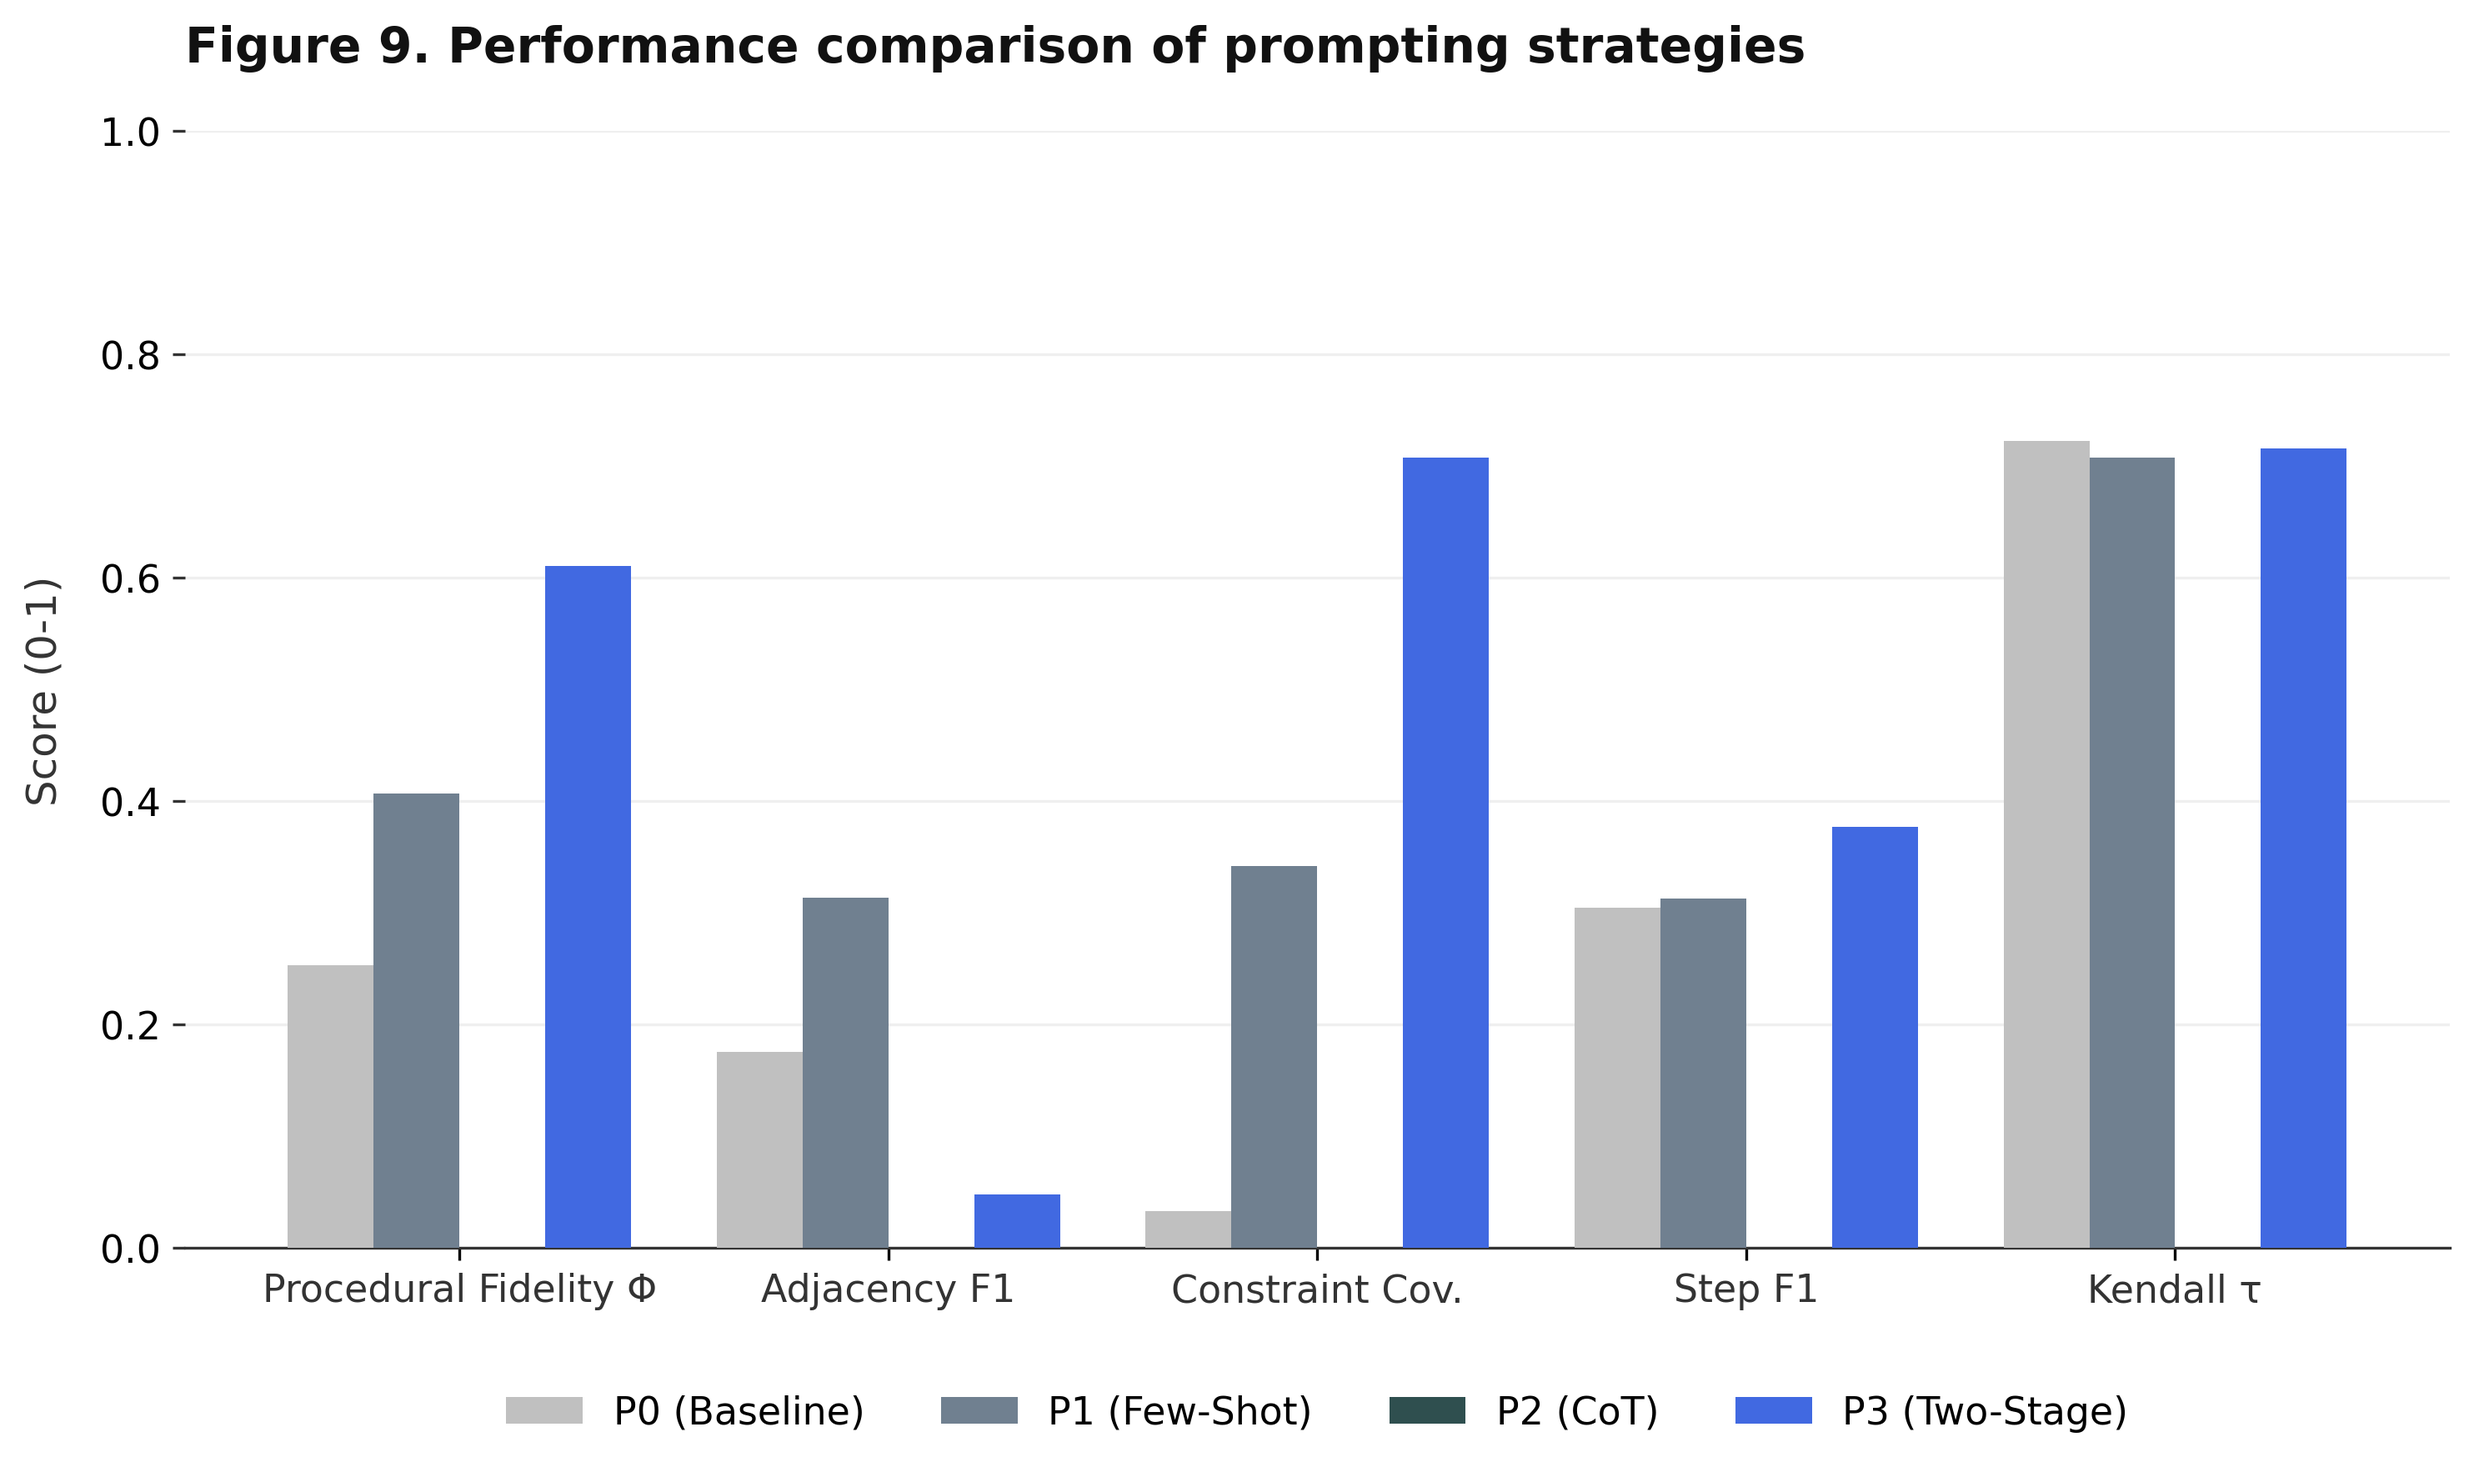
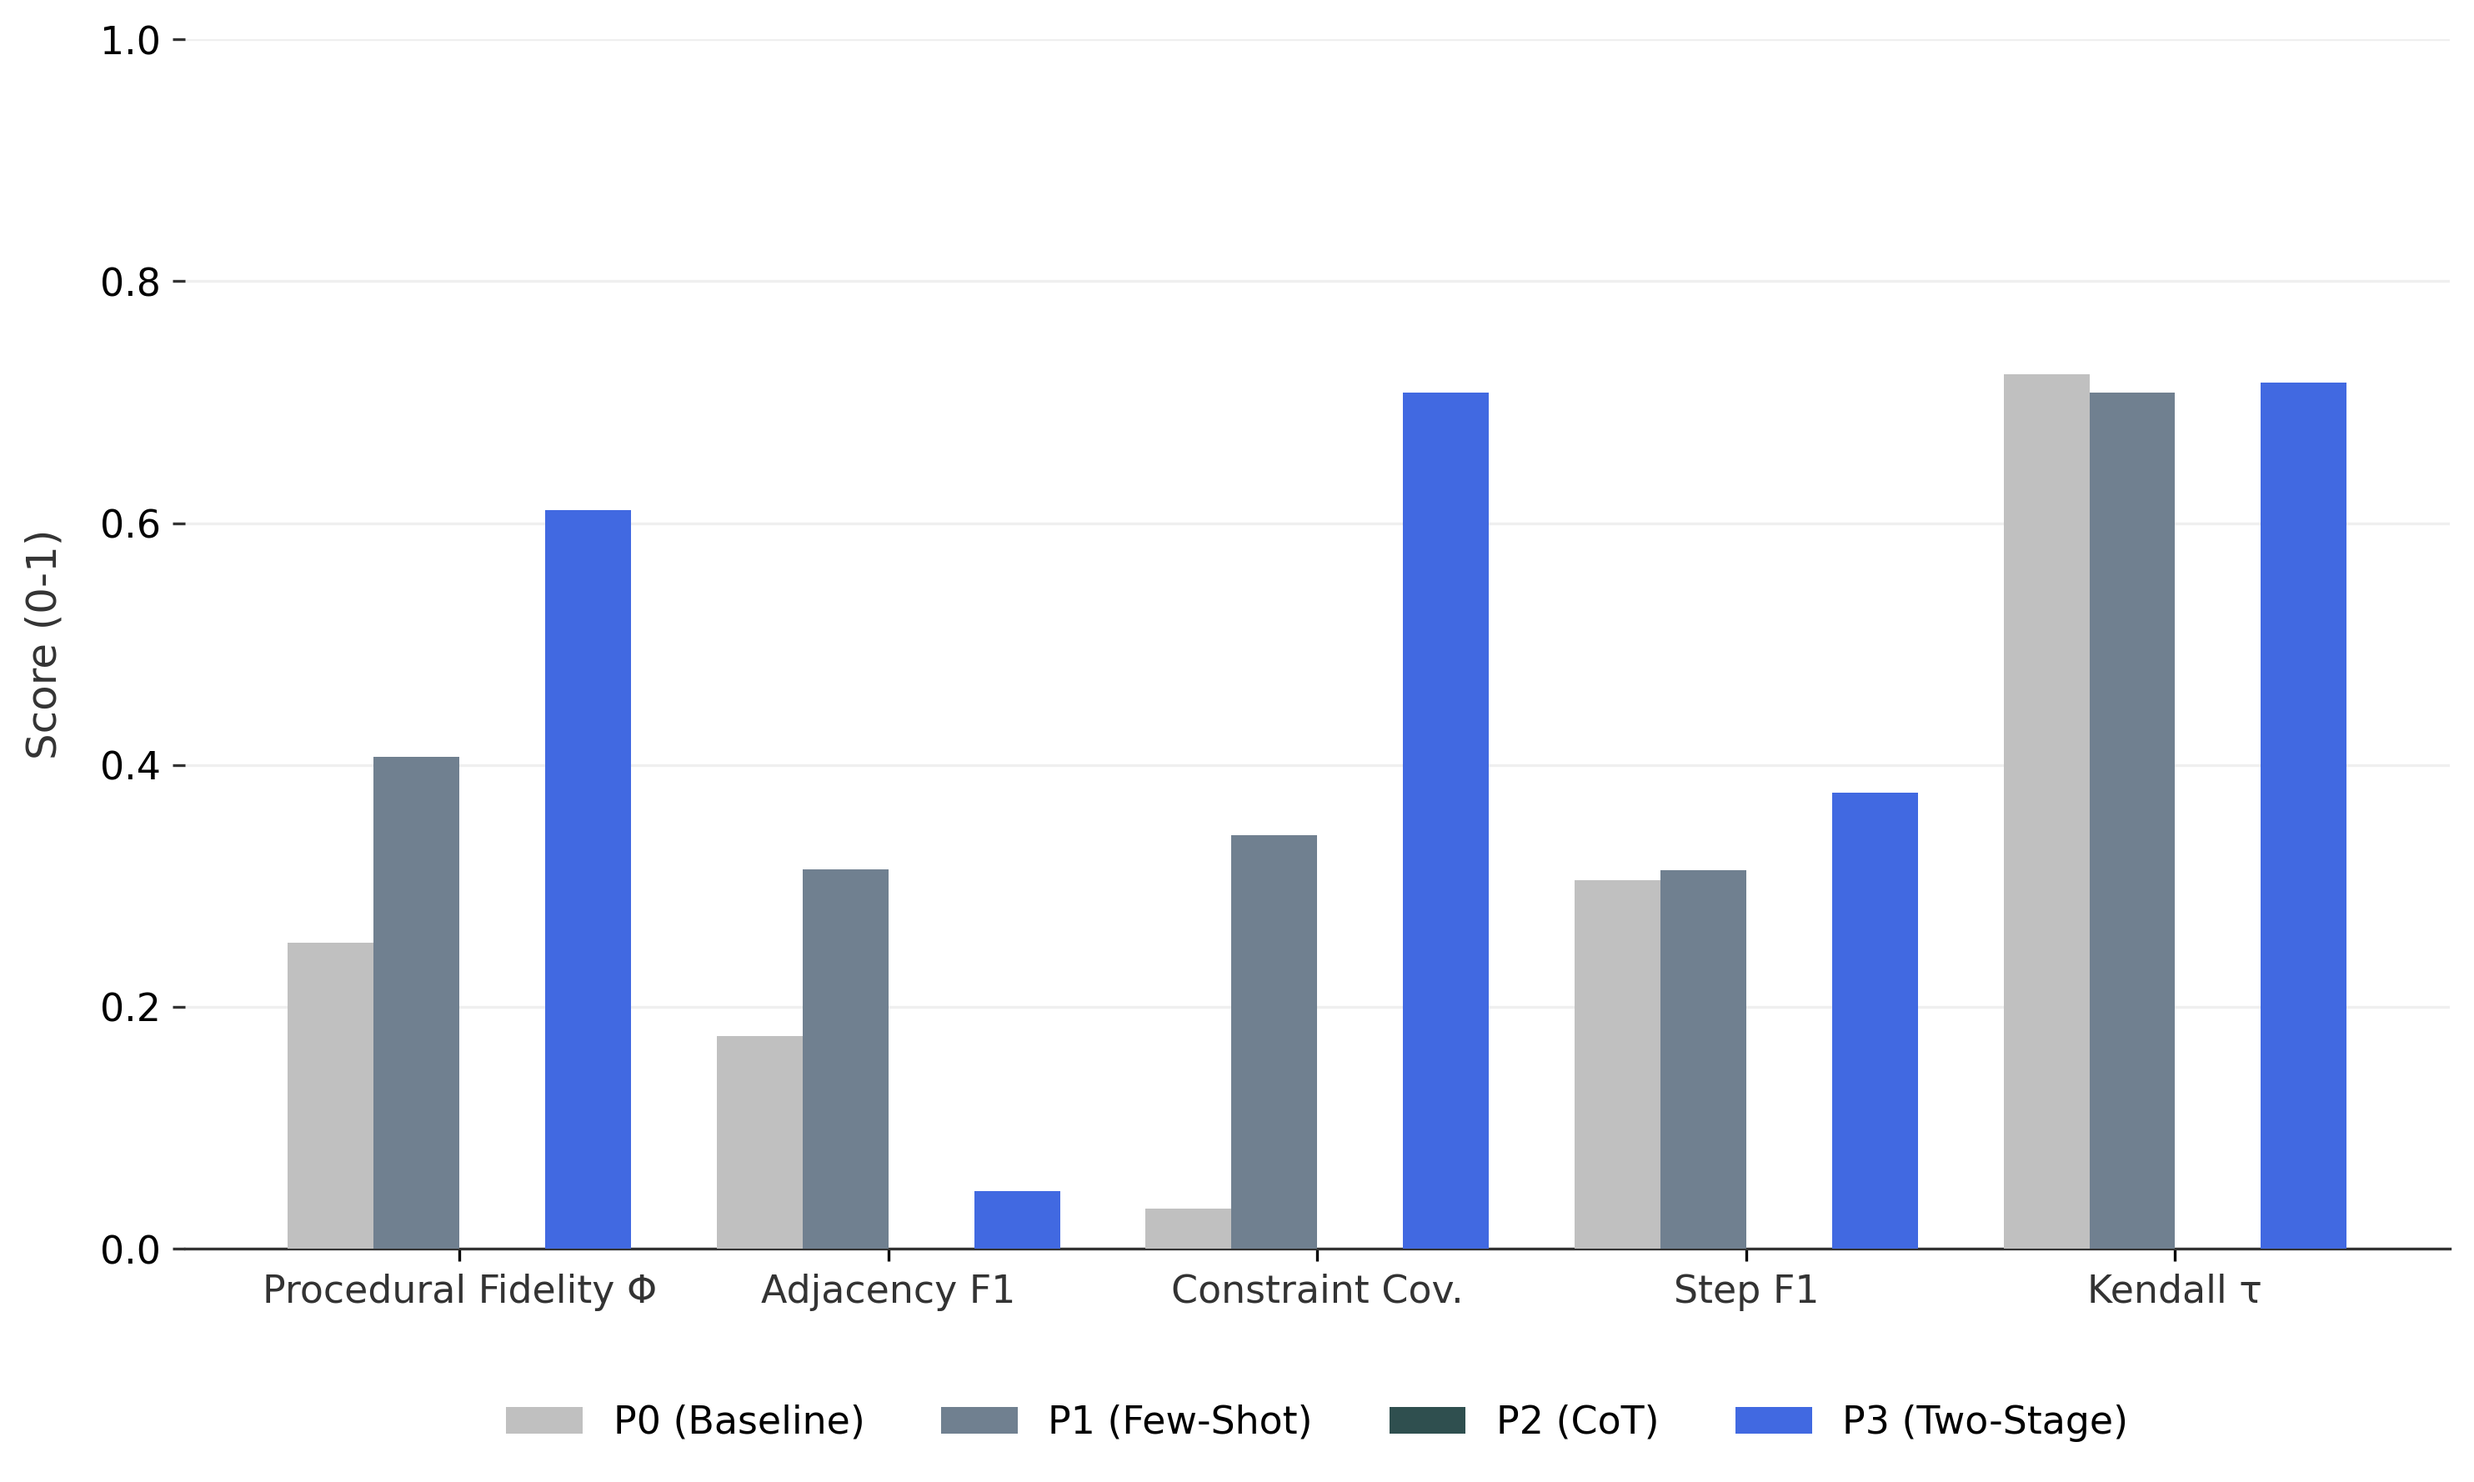
untitled graphs

diff --git a/scripts/plot_chunking_comparison.py b/scripts/plot_chunking_comparison.py
@@ -59,8 +59,6 @@ def plot_chunking_comparison(output_path: str = "assets/chunking_comparison_char
 
     # Styling
     ax.set_ylabel('Score (0-1)', fontsize=12, color='#333333', labelpad=10)
-    ax.set_title('Figure 14. Performance comparison of chunking strategies', 
-                 fontsize=14, fontweight='bold', loc='left', pad=20, color='#111111')
     
     ax.set_xticks(x)
     ax.set_xticklabels(metrics, fontsize=11, color='#333333')

diff --git a/scripts/plot_prompting_comparison.py b/scripts/plot_prompting_comparison.py
@@ -54,8 +54,6 @@ def plot_prompting_comparison(output_path: str = "assets/prompting_comparison_ch
 
     # Styling
     ax.set_ylabel('Score (0-1)', fontsize=12, color='#333333', labelpad=10)
-    ax.set_title('Figure 9. Performance comparison of prompting strategies', 
-                 fontsize=14, fontweight='bold', loc='left', pad=20, color='#111111')
     
     ax.set_xticks(x)
     ax.set_xticklabels(metrics, fontsize=11, color='#333333')
